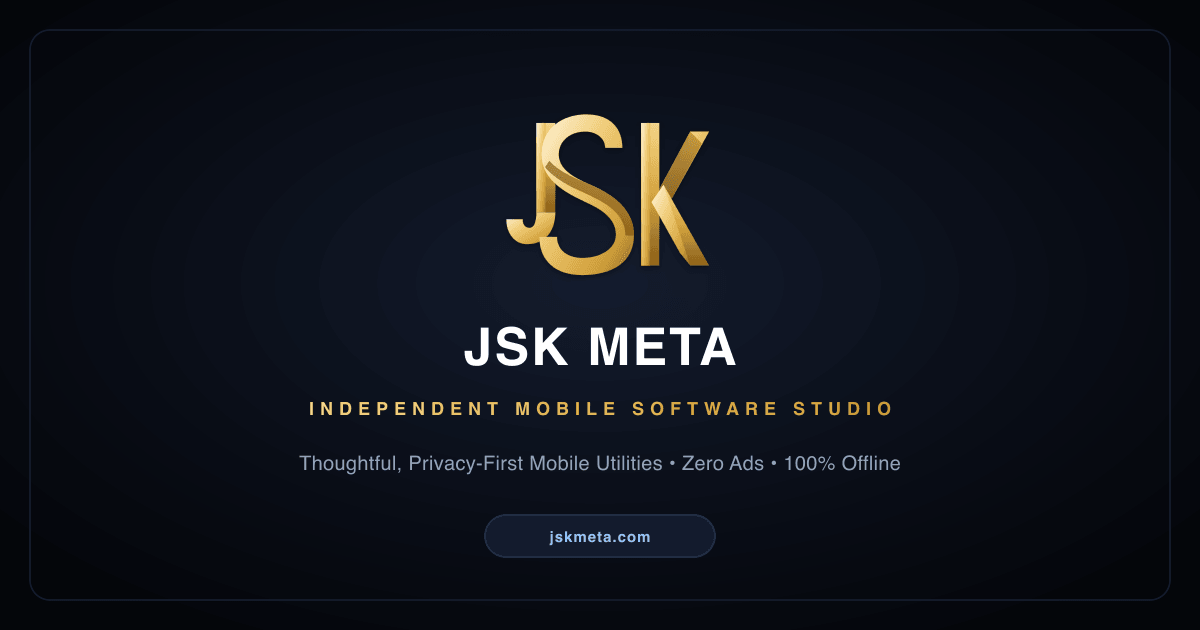
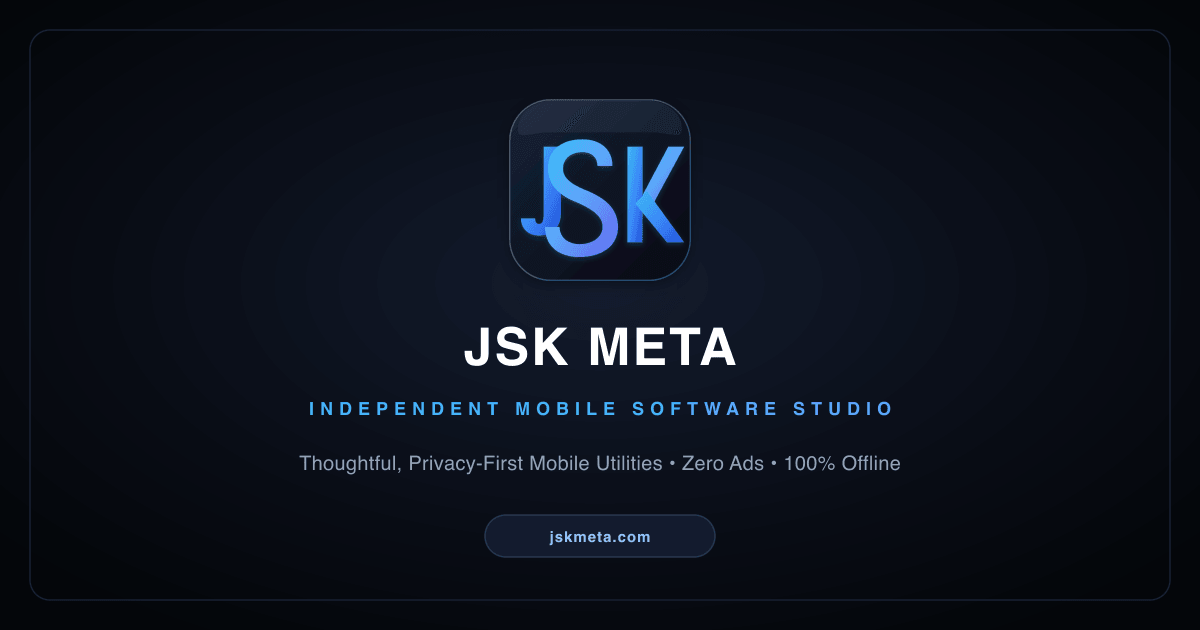
feat(web): update brand mark to studio squircle app emblem

Changed region(s): [[0.4008, 0.1508, 0.5858, 0.4524], [0.2467, 0.6333, 0.74, 0.6635]]

diff --git a/scripts/generate-assets.js b/scripts/generate-assets.js
@@ -7,74 +7,63 @@ const __dirname = path.dirname(fileURLToPath(import.meta.url));
 const rootDir = path.resolve(__dirname, "..");
 const imagesDir = path.join(rootDir, "images");
 
-const goldGradients = `
-  <defs>
-    <!-- Highlight gold -->
-    <linearGradient id="gold-light" x1="0%" y1="0%" x2="100%" y2="100%">
-      <stop offset="0%" stop-color="#fff5db" />
-      <stop offset="40%" stop-color="#f0cb75" />
-      <stop offset="80%" stop-color="#cf9e38" />
-      <stop offset="100%" stop-color="#9a6e1a" />
-    </linearGradient>
-
-    <!-- Midtone gold -->
-    <linearGradient id="gold-mid" x1="0%" y1="0%" x2="0%" y2="100%">
-      <stop offset="0%" stop-color="#f5d688" />
-      <stop offset="50%" stop-color="#d4a343" />
-      <stop offset="100%" stop-color="#8c5e14" />
-    </linearGradient>
-
-    <!-- Deep shadow facet -->
-    <linearGradient id="gold-shadow" x1="100%" y1="0%" x2="0%" y2="100%">
-      <stop offset="0%" stop-color="#b08226" />
-      <stop offset="50%" stop-color="#7a500e" />
-      <stop offset="100%" stop-color="#4d3005" />
-    </linearGradient>
-
-    <!-- Horizontal sweep -->
-    <linearGradient id="gold-sweep" x1="0%" y1="50%" x2="100%" y2="50%">
-      <stop offset="0%" stop-color="#fae2a0" />
-      <stop offset="50%" stop-color="#d8ab4e" />
-      <stop offset="100%" stop-color="#9b6e1c" />
-    </linearGradient>
-
-    <filter id="subtle-drop" x="-20%" y="-20%" width="140%" height="140%">
-      <feDropShadow dx="0" dy="6" stdDeviation="6" flood-color="#000000" flood-opacity="0.28" />
-    </filter>
-  </defs>
-`;
-
 const logoSvg = `<?xml version="1.0" encoding="UTF-8"?>
 <svg width="512" height="512" viewBox="0 0 512 512" fill="none" xmlns="http://www.w3.org/2000/svg">
-  ${goldGradients}
-  <g filter="url(#subtle-drop)">
-    <!-- J STEM (Left facet light, Right facet shadow) -->
-    <!-- Top terminal cap & stem -->
-    <polygon points="108,100 152,100 152,308 108,308" fill="url(#gold-mid)" />
-    <polygon points="108,100 130,100 130,308 108,308" fill="url(#gold-light)" />
-    
-    <!-- J Hook (Bottom curve curling left) -->
-    <path d="M 108,308 L 152,308 C 152,352 128,382 86,382 C 58,382 38,358 38,324 L 76,324 C 76,337 82,344 92,344 C 102,344 108,332 108,308 Z" fill="url(#gold-light)" />
+  <defs>
+    <!-- Site Accent: Electric Cyan to Cobalt Blue -->
+    <linearGradient id="cyan-blue" x1="0%" y1="0%" x2="100%" y2="100%">
+      <stop offset="0%" stop-color="#38bdf8" />
+      <stop offset="60%" stop-color="#3b82f6" />
+      <stop offset="100%" stop-color="#1d4ed8" />
+    </linearGradient>
 
-    <!-- FORWARD S (Sculpted Center Ribbon in Natural Direction) -->
-    <!-- S Main Body: Starts at upper right, curves left over top, sweeps diagonally down-right, curves out to lower right, finishes at bottom left -->
-    <path d="M 308,158 L 268,158 C 268,136 248,120 222,120 C 185,120 160,143 160,173 C 160,203 185,223 232,243 C 295,270 335,306 335,362 C 335,424 284,454 215,454 C 152,454 115,421 115,365 L 156,365 C 156,394 178,414 215,414 C 258,414 293,392 293,360 C 293,326 266,303 220,283 C 162,256 120,226 120,173 C 120,113 168,80 224,80 C 282,80 308,114 308,158 Z" fill="url(#gold-light)" />
+    <!-- Electric Cyan to Purple / Indigo -->
+    <linearGradient id="cyan-indigo" x1="0%" y1="0%" x2="100%" y2="100%">
+      <stop offset="0%" stop-color="#38bdf8" />
+      <stop offset="50%" stop-color="#60a5fa" />
+      <stop offset="100%" stop-color="#6366f1" />
+    </linearGradient>
 
-    <!-- Dimensional Bevel / Chisel Spine on S Waist -->
-    <path d="M 232,243 C 295,270 335,306 335,362 L 315,362 C 315,320 284,293 235,270 L 192,250 C 165,236 142,220 128,203 L 138,188 C 156,208 182,223 232,243 Z" fill="url(#gold-shadow)" opacity="0.65" />
+    <!-- Dark Glass Squircle Background -->
+    <linearGradient id="squircle-bg" x1="0%" y1="0%" x2="100%" y2="100%">
+      <stop offset="0%" stop-color="#162238" />
+      <stop offset="50%" stop-color="#0d1524" />
+      <stop offset="100%" stop-color="#070a12" />
+    </linearGradient>
 
-    <!-- K LETTER (Right side with bold angled facets) -->
-    <!-- K Vertical Stem -->
-    <polygon points="352,100 394,100 394,432 352,432" fill="url(#gold-mid)" />
-    <polygon points="352,100 373,100 373,432 352,432" fill="url(#gold-light)" />
+    <!-- Squircle Border -->
+    <linearGradient id="squircle-stroke" x1="0%" y1="0%" x2="100%" y2="100%">
+      <stop offset="0%" stop-color="rgba(255, 255, 255, 0.28)" />
+      <stop offset="100%" stop-color="rgba(56, 189, 248, 0.35)" />
+    </linearGradient>
 
-    <!-- K Upper Diagonal (with chiseled split) -->
-    <polygon points="394,254 466,120 510,120 423,276" fill="url(#gold-light)" />
-    <polygon points="394,254 423,276 493,148 466,120" fill="url(#gold-shadow)" opacity="0.6" />
+    <!-- Modern Soft Drop Shadows -->
+    <filter id="soft-glow" x="-20%" y="-20%" width="140%" height="140%">
+      <feDropShadow dx="0" dy="4" stdDeviation="6" flood-color="#0284c7" flood-opacity="0.32" />
+    </filter>
+    <filter id="badge-shadow" x="-20%" y="-20%" width="140%" height="140%">
+      <feDropShadow dx="0" dy="10" stdDeviation="14" flood-color="#000000" flood-opacity="0.35" />
+    </filter>
+  </defs>
 
-    <!-- K Lower Diagonal (with chiseled split) -->
-    <polygon points="404,244 510,432 466,432 376,284" fill="url(#gold-mid)" />
-    <polygon points="404,244 376,284 442,402 466,432" fill="url(#gold-light)" />
+  <!-- Apple Studio Developer Squircle Base -->
+  <g filter="url(#badge-shadow)">
+    <rect x="46" y="46" width="420" height="420" rx="96" ry="96" fill="url(#squircle-bg)" stroke="url(#squircle-stroke)" stroke-width="3" />
+    <path d="M 65,115 C 65,78 95,54 138,48 L 374,48 C 417,54 447,78 447,115 C 447,140 417,122 374,122 L 138,122 C 95,122 65,140 65,115 Z" fill="#ffffff" opacity="0.06" />
+  </g>
+
+  <!-- Luminous Studio JSK Core -->
+  <g filter="url(#soft-glow)">
+    <!-- J -->
+    <path d="M 125,155 L 165,155 L 165,310 C 165,342 145,362 114,362 C 88,362 72,345 72,322 L 105,322 C 105,330 108,335 114,335 C 122,335 125,328 125,310 Z" fill="url(#cyan-blue)" />
+
+    <!-- S (Forward orientation) -->
+    <path d="M 285,200 L 250,200 C 250,180 236,168 215,168 C 188,168 170,184 170,206 C 170,228 188,242 222,256 C 268,274 298,300 298,342 C 298,388 258,412 208,412 C 158,412 128,385 128,342 L 162,342 C 162,366 182,382 208,382 C 238,382 262,366 262,342 C 262,318 240,302 205,286 C 162,270 135,246 135,206 C 135,160 170,138 215,138 C 260,138 285,164 285,200 Z" fill="url(#cyan-indigo)" />
+
+    <!-- K -->
+    <polygon points="320,155 355,155 355,378 320,378" fill="url(#cyan-blue)" />
+    <polygon points="355,268 415,155 452,155 382,284" fill="url(#cyan-indigo)" />
+    <polygon points="365,258 452,378 412,378 338,288" fill="url(#cyan-blue)" />
   </g>
 </svg>
 `;
@@ -108,10 +97,9 @@ async function generateAssets() {
       <stop offset="60%" stop-color="#090d16" />
       <stop offset="100%" stop-color="#04060a" />
     </radialGradient>
-    <linearGradient id="gold-text" x1="0%" y1="0%" x2="100%" y2="0%">
-      <stop offset="0%" stop-color="#f5d688" />
-      <stop offset="50%" stop-color="#e2b450" />
-      <stop offset="100%" stop-color="#cf9e38" />
+    <linearGradient id="cyan-text" x1="0%" y1="0%" x2="100%" y2="0%">
+      <stop offset="0%" stop-color="#38bdf8" />
+      <stop offset="100%" stop-color="#60a5fa" />
     </linearGradient>
   </defs>
 
@@ -119,7 +107,7 @@ async function generateAssets() {
   <rect x="30" y="30" width="1140" height="570" rx="20" ry="20" fill="none" stroke="#1e293b" stroke-width="1.5" stroke-opacity="0.8" />
 
   <text x="600" y="365" font-family="-apple-system, BlinkMacSystemFont, 'SF Pro Display', 'Segoe UI', Roboto, sans-serif" font-size="52" font-weight="800" fill="#ffffff" letter-spacing="2" text-anchor="middle">JSK META</text>
-  <text x="600" y="415" font-family="-apple-system, BlinkMacSystemFont, 'SF Pro Text', 'Segoe UI', Roboto, sans-serif" font-size="18" font-weight="700" fill="url(#gold-text)" letter-spacing="6" text-anchor="middle">INDEPENDENT MOBILE SOFTWARE STUDIO</text>
+  <text x="600" y="415" font-family="-apple-system, BlinkMacSystemFont, 'SF Pro Text', 'Segoe UI', Roboto, sans-serif" font-size="18" font-weight="700" fill="url(#cyan-text)" letter-spacing="6" text-anchor="middle">INDEPENDENT MOBILE SOFTWARE STUDIO</text>
   <text x="600" y="470" font-family="-apple-system, BlinkMacSystemFont, 'SF Pro Text', 'Segoe UI', Roboto, sans-serif" font-size="20" font-weight="400" fill="#94a3b8" letter-spacing="0.3" text-anchor="middle">Thoughtful, Privacy-First Mobile Utilities &#8226; Zero Ads &#8226; 100% Offline</text>
 
   <g transform="translate(485, 515)">
